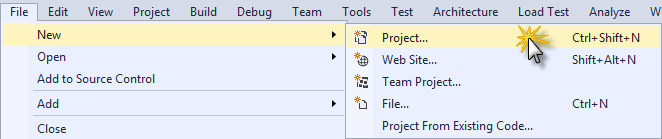
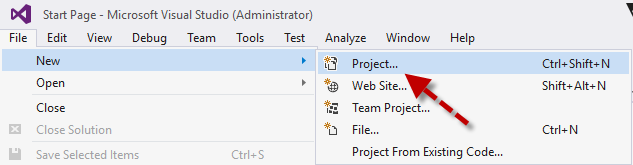
Updated the get-started-with-websites-and-asp-net
updated the content

diff --git a/HOL/get-started-with-websites-and-asp-net/README.md b/HOL/get-started-with-websites-and-asp-net/README.md
@@ -5,9 +5,10 @@ This lab shows how to create an ASP.NET web application and deploy it to an Azur
 This lab includes the following sections:
 
 1. [Create an ASP.NET web application in Visual Studio](#create-an-aspnet-web-application)
+1. [Create a SQL Database online](#create-a-database-for-application)
 1. [Deploy the application to Azure](#deploy-the-application-to-azure)
 1. [Make a change and redeploy](#make-a-change-and-redeploy)
-1. [Monitor and manage the site in the preview portal](#monitor-and-manage-the-site-in-the-management-portal)
+1. [Monitor and manage the site in the portal](#monitor-and-manage-the-site-in-the-management-portal)
 1. [Appendix - Cleanup](#cleanup)
 
 ## Create an ASP.NET web application
@@ -36,23 +37,36 @@ In this task you will create the web application that is going to be used throug
 
     _New ASP.NET Project dialog box_
 
-5. If you haven't already signed in to Azure, Visual Studio prompts you to do so. Click **Sign In**. Follow the prompts and provide your credentials.
+5. Once the application is selected you will get a pop-up to enter details for **Creating an App Service**. Once you enter the details like: WebApp Name, Subsciption, Resource Group(if you have created earlier, if not create a Resource Group in Azure Portal and the list will be populated. Select the resource group)
 
-	![Sign in to Azure](./images/sign-to-Azure.png)
+	![Creating App Service](./images/configure-azure1.png)
 
-    _Sign in to Azure_
+    _Details for Creating App Service_
 
-6. The configuration wizard will suggest a unique name based on *ContactManager* (see the image below). Select a region near you. You can use [azurespeed.com](http://www.azurespeed.com/ "AzureSpeed.com") to find the lowest latency data center.
-7. If you haven't created a database server before, select **Create new server**, enter a database user name and password.
+6. Click on **New** button under **App Service Plan**. In a Service plan we can select **App Service Plan** Name, **Location**, **Size**(can be Free, Shared(paid), and different configurations)
 
-	![Configure Azure Web App](./images/configure-azure1.png)
+	![Configure Azure Web App - App Serive Plan](./images/configure-azure-app-service-plan.png)
 
-    _Configure Azure Web App_
+    _Configure Azure Web App - App Serive Plan_
+	
+7. Once the Service Plan is selected, select **Create**	to create a **Web App Service**. 
 
-	If you have a database server, use that to create a new database. Database servers are a precious resource, and you generally want to create multiple databases on the same server for testing and development rather than creating a database server per database. Make sure your Web App and database are in the same region.
+	![Configure Azure Web App - App Serive Plan](./images/configure-azure2.png)
 
-8. Click **OK**.
+    _Configure Azure Web App - App Serive Plan_
+	
+8. As the application was created in Azure App Services, you can verify to your azure portal and check under the App Services Section you will have Contact Manager application hosted or navigate to the URL it will be **LIVE**
 
+	![Configure Azure Web App - App Serive Plan](./images/create-website-2.png)
+
+    _Created App Services - Web App_
+	
+8. Once the App Service is created we are ready to publish the ASP.NET Application code, click on **Publish contactmanager to this web app now**	
+
+	![Configure Azure Web App - App Serive Plan](./images/create-appservice-webapp.png)
+
+    _Configure Azure Web App - App Serive Plan_
+	
 	In a few seconds, Visual Studio creates the web project in the folder you specified, and it creates the Web App in the Azure region you specified.
 
 	The **Solution Explorer** window shows the files and folders in the new project.
@@ -61,25 +75,41 @@ In this task you will create the web application that is going to be used throug
 
 	_Solution Explorer_
 
-	The **Azure App Service Activity** window shows that the Web App has been created.
+## Create a SQL Database online
 
-	![Web App created](./images/web-publish-view.png)
+1. In your browser, go to [http://portal.azure.com](http://portal.azure.com), and sign in with your Azure credentials.
 
-	_Web App created_
+	On the left, click on **NEW** and **Data + Storage** and followed by **SQL Database** in the Data Storage section which is a database as a service.
 
-	And you can see the Web App and database in **Server Explorer**.
+2. Fill the details in **SQL Database** section.
 
-	> **Note:** if the Server Explorer window is not open, you can open it from the **View** menu.
+	![Database App details](./images/create-sql-database.png)
 
-	![Web App created](./images/server-explorer.png)
+    _Database details_
+	
+3. Create a new **Server**(if you dont have an existing server) along with the Server Credentials, and select the **Source** as **Blank**, **Pricing Tier**, **Optional Configuration**, and select the existing **Resource Group** where we previously created App Service and Click **Create**
 
-    _Web App created_
+	![Database App details](./images/create-database-server.png)
 
+    _Create Database details_
+
+4. Once the SQL Database is created. Click on the SQL Databases at left pane. and select the database which we created just now.
+
+	![Database details](./images/database-created.png)
+
+    _Created Database details_
+	
+5. Copy the **Connection String** from the Azure portal which will be used when we deploy the App Server as we have to point the Connection String to this database.
+
+	![Database details](./images/database-string.png)
+
+    _Created Database details_
+	
 ## Deploy the application to Azure
 
 1. In the **Azure App Service Activity** window, click **Publish ContactManager to this Web App now**.
 
-	![Web App created](./images/web-publish-view-2.png)
+	![Web App created](./images/create-appservice-webapp-high.png)
 
     _Azure App Service Activity Window_
 
@@ -89,7 +119,7 @@ In this task you will create the web application that is going to be used throug
 
 2. In the **Connection** tab of the **Publish Web** wizard, click **Validate Connection** to make sure that Visual Studio can connect to Azure in order to deploy the web project.
 
-	![Validate connection](./images/validate-connection.png)
+	![Validate connection](./images/publish-azure-connections.png)
 
     _Validating the connection_
 
@@ -97,7 +127,7 @@ In this task you will create the web application that is going to be used throug
 
 3. Click **Next**.
 
-	![Successfully validated connection](./images/validate-connection-2.png)
+	![Successfully validated connection](./images/publish-validate.png)
 
 	_Successfully validated connection_
 
@@ -117,7 +147,7 @@ In this task you will create the web application that is going to be used throug
 
 	In this case, keep the default values for **Configuration** and **File Publish Options** and click **Next**.
 
-	![Settings tab](./images/publishing-settings.png)
+	![Settings tab](./images/publish-azure-connection-string.png)
 
     _Settings tab_
 
@@ -157,7 +187,7 @@ In this task you will create the web application that is going to be used throug
 
 ## Make a change and redeploy
 
-In this task, you will change the **h1** heading of the home page, run the project locally on your development computer to verify the change, and then deploy the change to Azure.
+In this task, you will change the **h1** heading of the home page, run the project and redeploy on your App Service on Azure.
 
 1. Open the *Views/Home/Index.cshtml* file in **Solution Explorer**, change the **h1** heading from "ASP.NET" to "ASP.NET and Azure", and save the file.
 
@@ -169,11 +199,7 @@ In this task, you will change the **h1** heading of the home page, run the proje
 
     _Changing the page's heading_
 
-2. Press **CTRL+F5** to see the updated heading by running the site on your local computer.
-
-	![Web App running locally](./images/running-localhost.png)
-
-	_Web App running locally_
+2. Press **CTRL+F5** to see the updated heading by running the site.
 
 	The **http://localhost** URL shows that it's running on your local computer. By default it's running in IIS Express, which is a lightweight version of IIS designed for use during web application development.
 
@@ -181,7 +207,7 @@ In this task, you will change the **h1** heading of the home page, run the proje
 
 4. In **Solution Explorer**, right-click the project, and choose **Publish**.
 
-	![Chooose Publish](./images/second-publish.png)
+	![Chooose Publish](./images/publish-aspnet.png)
 
     _Preparing a new deployment_
 
@@ -189,21 +215,15 @@ In this task, you will change the **h1** heading of the home page, run the proje
 
 5. In the **Publish Web** wizard, click **Publish**.
 
-	![Click Publish](./images/click-publish-no-preview.png)
+	![Click Publish](./images/azure-publish-change-files.png)
 
 	_Publish Web Wizard_
 
 	Visual Studio deploys the project to Azure and opens the site in the default browser.
 
-	![Changed site deployed](./images/aspnet-and-azure.png)
+	![Changed site deployed](./images/publish-azure-modified.png)
 
 	_Changes deployed_
-
-	>**Tip:** You can enable the **Web One Click Publish** toolbar for even quicker deployment. Click **View** > **Toolbars**, and then select **Web One Click Publish**. The toolbar enables you to select a profile, click a button to publish, or click a button to open the **Publish Web** wizard.
-
-	![Web One Click Publish Toolbar](./images/publish-toolbar.png)
-
-    _Web One Click Publish Toolbar_
 
 ## Monitor and manage the site in the preview portal
 
@@ -211,17 +231,9 @@ The [Azure Preview Portal](https://portal.azure.com/) is a web interface that en
 
 1. In your browser, go to [http://portal.azure.com](http://portal.azure.com), and sign in with your Azure credentials.
 
-	The portal displays the home dashboard.
-
-	On the left, click on **Browse** and then scroll down until you find **Web Apps**. Click on **Web Apps**.
-
-	![Browse to Web Apps](./images/browse-to-web-apps.png)
+	On the left, click on **App Services** and the Web App Services are listed.
 
 2. Click the name of your Web App on the blade.
-
-	![Web Apps blade with the Web App called out](./images/select-website.png)
-
-    _Web Apps blade_
 
 3. This blade gives you an overview of your Web App.
 
@@ -241,18 +253,6 @@ The [Azure Preview Portal](https://portal.azure.com/) is a web interface that en
 
   	_WebApp's settings blade_
 
-5. Click the **Scale** option, right below **Application Settings**.
-
-	For the paid tiers of the Azure App Service, the [Scale](http://azure.microsoft.com/en-us/documentation/articles/web-sites-scale/) option enables you to control the size and number of machines that service your web application in order to handle variations in traffic.
-
-	You can scale manually or configure criteria or schedules for automatic scaling.
-
-	![Portal Web App scale options](./images/website-scale.png)
-
-    _Web App's Scale Options_
-
-	These are just a few of the management portal features. You can also create new App Service apps, delete existing apps, stop and restart apps, and manage other kinds of Azure services, such as databases and virtual machines.
-
 <a name="cleanup"></a>
 ##Appendix - Cleanup
 
@@ -260,35 +260,18 @@ In this task you will learn how to delete the Web App published in the previous 
 
 1. In your browser, go to [http://portal.azure.com](http://portal.azure.com), and sign in with your Azure credentials.
 
-2. Click on **Browse** and scroll down until you see **Web Apps**. Click on **Web Apps**.
-
-3. Select your Web App. The Web App blade should now be open.
+2. Click on **Resource Groups** at left pane which will display all the resource groups created, Select the Resource group created earlier in this Lab.
 
 4. Click **Delete** in the top bar.
 
-	![Clicking Delete Web App](./images/clicking-delete-website.png?raw=true)
+	![Clicking Delete Resource Group](./images/delete-resource.png?raw=true)
 
-	_Clicking Delete to delete Web App_
+	_Clicking Delete Resource Group_
 
 5. In the **Delete app** confirmation dialog, click **Yes**.
 
-	This will delete the Web App but it will keep the database intact. If you want to delete the database as well, follow the instructions below.
-
-6. Click on **Browse** and scroll down until you see **SQL Databases**. Click on **SQL Databases**.
-
-	![SQL Databases](./images/browse-to-sql-database.png)
-	_Click SQL databases_
-
-7. In the new **SQL Databases** blade, click on your database.
-
-	The database blade should now be open.
-
-8. Click on **Delete** from the top bar.
-
-	![SQL Database delete](./images/sql-database-blade-click-delete.png)
-
-9. In the **Delete database** confirmation dialog, click **Yes**.
-
+	This will delete the Resource Group to which all resources are intact(i.e, App Service, App Service Plan, SQL Database, Server).
+	
 ## Summary
 
-In this lab you have seen how to create a simple web application and deploy it to an Azure App Service Web App. You also made a quick tour around the Azure Preview Portal.
+In this lab you have seen how to create a simple web application and deploy it to an Azure App Service Web App. You also made a quick tour around the Azure Portal.
